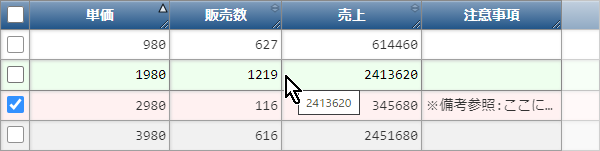
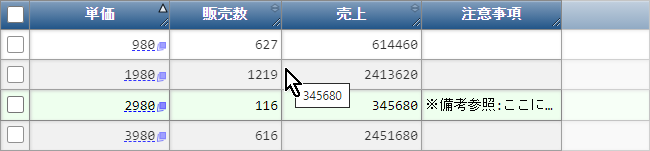
2021.08.30

diff --git a/projects/tym-table/src/lib/tym-table.component.ts b/projects/tym-table/src/lib/tym-table.component.ts
@@ -222,7 +222,7 @@ export class TymTableComponent {
    * @param row 行データ
    */
   private _doDragStart = (event: DragEvent, num: number, row: any): void => {
-    event.dataTransfer!.dropEffect = this._dd_def.dragType as any;
+    event.dataTransfer!.effectAllowed = this._dd_def.dragType as any;
     event.dataTransfer?.setData('text/plain', num.toString());
     event.dataTransfer?.setData('application/json', JSON.stringify(row));
   }
@@ -288,14 +288,16 @@ export class TymTableComponent {
       this._doDrop = dddef.doDrop;
     }
     /** TYM_DDDEF */
-    this._dd_def.dragType = dddef.dragType || 'none';
-    this._dd_def.dropType = dddef.dropType || 'none';
-    this._dd_def.doDragStart = this._doDragStart;
-    this._dd_def.doDragEnd = this._doDragEnd;
-    this._dd_def.doDragEnter = this._doDragEnter;
-    this._dd_def.doDragOver = this._doDragOver;
-    this._dd_def.doDrop = this._doDrop;
-    this._dd_def._getRow = (row) => this._getRow(this._data, row);
+    this._dd_def = {
+      dragType: dddef.dragType || 'none',
+      dropType: dddef.dropType || 'none',
+      doDragStart: this._doDragStart,
+      doDragEnd: this._doDragEnd,
+      doDragEnter: this._doDragEnter,
+      doDragOver: this._doDragOver,
+      doDrop: this._doDrop,
+      _getRow: (row) => this._getRow(this._data, row)
+    }
   }
 
   //-------------------------------------------------------------------
@@ -540,9 +542,9 @@ export interface TYM_FUNCS {
  * ドラッグアンドドロップの定義
  */
 export interface TYM_DDDEF {
-  /** ドラッグタイプ, 規定値: none */
+  /** ドラッグタイプ(effectAllowed), 規定値: none */
   dragType?: DRAG_TYPE;
-  /** ドラッグタイプ, 規定値: none */
+  /** ドロップ効果(dropEffect), 規定値: none */
   dropType?: DROP_TYPE;
   /** ドラッグ開始時の関数を定義 */
   doDragStart?: (event: DragEvent, num: number, row: any) => void;
@@ -557,10 +559,10 @@ export interface TYM_DDDEF {
   /** @private @access private */
   _getRow?: (num: number) => any;
 }
-export type DRAG_TYPE = 'none' | 'copy' | 'link' | 'move';
-export type DROP_TYPE = 
+export type DRAG_TYPE = 
   'none' | 'copy' | 'copyLink' | 'copyMove' | 'link' | 'linkMove' |
   'move' | 'all' | 'uninitialized';
+export type DROP_TYPE = 'none' | 'copy' | 'link' | 'move';
 
 /**
  * テーブルカラムの定義

diff --git a/projects/tym-table/src/lib/tym-cellmk.directive.ts b/projects/tym-table/src/lib/tym-cellmk.directive.ts
@@ -1,0 +1,68 @@
+/*!
+ * tym-table.js
+ * Copyright (c) 2021 shinichi tayama
+ * Released under the MIT license.
+ * see https://opensource.org/licenses/MIT
+ */
+
+import { Directive, Input, ElementRef, OnInit } from '@angular/core';
+import { TYM_COL } from './tym-table.component'
+
+@Directive({
+  selector: '[cellmk]'
+})
+export class CellmkDirective implements OnInit {
+
+  private _txt?: string = '';
+  private _col: TYM_COL = { title: '' };
+
+  /**
+   * 親コンポーネントから受け取るデータ
+   *
+   * @type {string} 操作の種類 {none,copy,link,move}
+   * @memberof DragDropDirective
+   */
+  @Input() set cellmk(cellmk: any[]) {
+    [this._txt, this._col] = cellmk;
+  }
+
+  /**
+   * コンストラクタ
+   *
+   * @param {ElementRef} elementRef このディレクティブがセットされたDOMへの参照
+   * @memberof CellmkDirective
+   */
+  constructor(
+    private elementRef: ElementRef
+  ) {
+  }
+
+  /**
+   * 初期処理
+   *
+   * @memberof CellmkDirective
+   */
+  public ngOnInit() {
+    const svgStyle = 'position:absolute;top:calc(var(--bd-pa) + .6em);right:.2em;width:.7em;height:.7em';
+    // const svgPopup = ''
+    //   + `<rect x="1" y="9" width="22" height="22" fill="none" stroke="blue" stroke-width="2"/>`
+    //   + `<rect x="10" y="0" width="22" height="22" fill="#88f" stroke="blue"/>`;
+    const svgPopup = ''
+      + `<rect x="10" y="0" width="22" height="22" fill="#88f" stroke="blue"/>`
+      + `<polyline points="5,6 1,30 23,27" fill="none" stroke="blue" stroke-width="2"/>`;
+    const tdElm = this.elementRef.nativeElement as HTMLElement;
+    tdElm.title = this._txt||'';
+    tdElm.style.textAlign = this._col.align || '';
+    if (this._col.clickable) {
+      tdElm.style.cursor = 'pointer';
+      tdElm.style.paddingRight = '1em';
+      tdElm.style.position = 'relative';
+      tdElm.style.textDecoration = 'underline blue dashed 1px';
+      tdElm.innerHTML = `${tdElm.title}`
+        + `<svg style="${svgStyle}" viewBox="0 0 32 32">${svgPopup}</svg>`
+    } else {
+      let tnode = document.createTextNode(tdElm.title);
+      tdElm.appendChild(tnode);
+    }
+  }
+}

diff --git a/projects/tym-table/src/lib/tym-table.component.html b/projects/tym-table/src/lib/tym-table.component.html
@@ -2,21 +2,21 @@
   <thead>
     <tr>
       <th (click)="onAllCheckChange(!_allCheck)"><input type="checkbox"
-        [(ngModel)]="_allCheck" (ngModelChange)="onAllCheckChange($event)" /></th>
+        [(ngModel)]="_allCheck" (ngModelChange)="onAllCheckChange($event)"></th>
       <th *ngFor="let head of _head_data; index as c" [title]="head.title" 
-        [class]="_head_odrs[c]" [style.width]="head.width"><div resize><span
-        (click)="onOrder(c)">{{head.title}}</span></div><svg *ngIf="head.sortable"
-        (click)="onOrder(c)" [ordermk]="_head_odrs[c]"></svg></th>
+        [class]="_head_odrs[c]" [style.width]="head.width"><div resize><span (click)="onOrder(c)" 
+        [class]="this._head_data[c].sortable?'clickable':''">{{head.title}}</span></div><svg
+        *ngIf="head.sortable" (click)="onOrder(c)" [ordermk]="_head_odrs[c]"></svg></th>
       <th></th>
     </tr>
   </thead>
   <tbody>
     <tr *ngFor="let row of _rows_data; index as r" [ngClass]="{'selected':_rows_chkd[r]}"
-      (contextmenu)="onContext($event,r);" [dragdrop]="[_rows_chkd[r],r,_dd_def]">
-      <th (click)="onCheckChange(!(_rows_chkd[r]),r)" ng><input type="checkbox"
-        [(ngModel)]="_rows_chkd[r]" (ngModelChange)="onCheckChange($event,r)" /></th>
+      (contextmenu)="onContext($event,r)" [dragdrop]="[_rows_chkd[r],r,_dd_def]">
+      <th (click)="onCheckChange(!(_rows_chkd[r]),r)"><input type="checkbox"
+        [(ngModel)]="_rows_chkd[r]" (ngModelChange)="onCheckChange($event,r)"></th>
       <td *ngFor="let col of row; index as c" (click)="onClick($event,r,c)"
-        [style.text-align]="_head_data[c].align" title="{{col}}">{{col}}</td>
+        [cellmk]="[col,_head_data[c]]"></td>
       <td></td>
     </tr>
   </tbody>

diff --git a/projects/tym-table/src/lib/tym-table.component.scss b/projects/tym-table/src/lib/tym-table.component.scss
@@ -15,7 +15,8 @@
   --bd-co: #000000;
   --bd-sa: 1px 1px 3px 0 #cccccc inset;
   --bd-pa: .4em;
-  --bd-wd: calc(var(--bd-pa) + var(--bd-pa) + 1.7em);
+  --bd-hi: calc(var(--bd-pa) + var(--bd-pa) + 1.7em);
+  --bd-wd: calc(var(--bd-pa) + var(--bd-pa) + 2.7em);
   --ev-co: #eeeeee;
   --od-co: #ffffff;
   --se-co: #ffeeee;
@@ -35,6 +36,7 @@ table {
       user-select: none;
 
       th {
+        position: -webkit-sticky;
         position: sticky;
         top: 0;
         z-index: 1;
@@ -50,7 +52,8 @@ table {
           z-index: 2;
           left: 0;
           resize: none;
-          width: var(--bd-wd);
+          cursor: pointer;
+          width: var(--bd-hi);
           border-left: 1px solid var(--bo-co);
         }
 
@@ -71,6 +74,7 @@ table {
 
         svg {
           position: absolute;
+          cursor: pointer;
           top: 2px;
           right: 0;
           width: 11px;
@@ -94,10 +98,12 @@ table {
         padding: var(--bd-pa) var(--bd-pa);
 
         &:first-child {
+          position: -webkit-sticky;
           position: sticky;
           left: 0;
           border-left: 1px solid var(--bo-co);
           padding: 0;
+          cursor: pointer;
         }
 
         &:last-child {
@@ -131,7 +137,7 @@ table {
 
   th,
   td {
-    height: var(--bd-wd);
+    height: var(--bd-hi);
     min-width: var(--bd-wd);
     overflow: hidden;
     text-overflow: ellipsis;
@@ -143,5 +149,10 @@ table {
     width: 1.2em;
     height: 1.2em;
     font-size: inherit;
+    cursor: pointer;
+  }
+
+  .clickable {
+    cursor: pointer;
   }
 }

diff --git a/src/app/app.component.ts b/src/app/app.component.ts
@@ -53,10 +53,10 @@ export class AppComponent {
     },
     doDragEnd: (event: DragEvent, num: number, row: any) => {
       (event.currentTarget as HTMLElement).style.opacity = '';
+      this.drag_row_num = -1;
       console.log(event,num);
     },
     doDragEnter: (event: DragEvent, num: number, row: any) => {
-      console.log(event,num);
       if (this.drag_row_num == num) {
         event.dataTransfer!.dropEffect = 'none';
         return;
@@ -70,7 +70,8 @@ export class AppComponent {
         event.dataTransfer!.dropEffect = 'none';
         return;
       }
-      event.dataTransfer!.dropEffect = 'copy';
+      event.preventDefault();
+      event.dataTransfer!.dropEffect = this.dddef.dropType as any;
     },
     doDrop: (event: DragEvent, num: number, row: any) => {
       console.log(event,num);

diff --git a/projects/tym-table/src/lib/tym-table.module.ts b/projects/tym-table/src/lib/tym-table.module.ts
@@ -11,6 +11,7 @@ import { TymTableComponent } from './tym-table.component';
 import { ResizeDirective } from './tym-resize.directive';
 import { OrdermkDirective } from './tym-ordermk.directive';
 import { DragDropDirective } from './tym-dragdrop.directive';
+import { CellmkDirective } from "./tym-cellmk.directive";
 import { CommonModule } from '@angular/common';  
 import { BrowserModule } from '@angular/platform-browser';
 
@@ -19,7 +20,8 @@ import { BrowserModule } from '@angular/platform-browser';
     TymTableComponent,
     ResizeDirective,
     OrdermkDirective,
-    DragDropDirective
+    DragDropDirective,
+    CellmkDirective
   ],
   imports: [
     CommonModule, BrowserModule, FormsModule

diff --git a/projects/tym-table/src/lib/tym-dragdrop.directive.ts b/projects/tym-table/src/lib/tym-dragdrop.directive.ts
@@ -59,10 +59,12 @@ export class DragDropDirective implements OnInit {
   private _setDragElement = (thisElm: HTMLElement): void => {
     const draggable = TYMDRAG_DEF.indexOf(this._dd_def.dragType || 'none') >= 1;
     thisElm.draggable = this._drag_tgt && draggable;
-    if (draggable) {
+    if (thisElm.draggable) {
       thisElm.addEventListener('dragstart', this._dragStart);
       thisElm.addEventListener('dragend', this._dragEnd);
+      thisElm.classList.add('clickable');
     } else {
+      thisElm.classList.remove('clickable');
       thisElm.removeEventListener('dragend', this._dragEnd);
       thisElm.removeEventListener('dragstart', this._dragStart);
     }

diff --git a/projects/tym-table/README.md b/projects/tym-table/README.md
@@ -167,9 +167,9 @@ doOrder(order: string, num: number) {
 ``` typescript
 /* ドラッグアンドドロップの定義 */
 export interface TYM_DDDEF {
-  /** ドラッグタイプ, 規定値: none */
+  /** ドラッグタイプ(effectAllowed), 規定値: none */
   dragType?: DRAG_TYPE;
-  /** ドラッグタイプ, 規定値: none */
+  /** ドロップ効果(dropEffect), 規定値: none */
   dropType?: DROP_TYPE;
   /** ドラッグ開始時の関数を定義 */
   doDragStart?: (event: DragEvent, num: number, row: any) => void;
